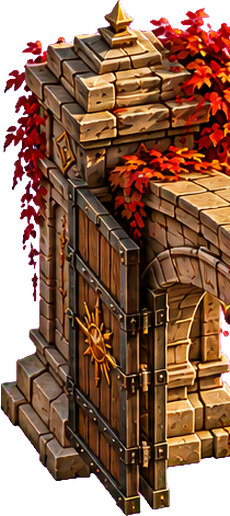
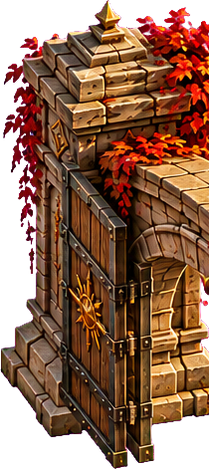
Temple Gate stands on the floor: its back tower's base now on the terrace floor just inside the back edge (it hung over the drop), the front tower still on the front balustrade; monsters never pass the gate (a wall at its line; past it you are out of their reach)
Claude-Session: https://claude.ai/code/session_01L1uDDec2PRhRRuGiNU2YTw

diff --git a/src/world/Monster.ts b/src/world/Monster.ts
@@ -8,7 +8,7 @@ import { actorDepth, clearLine, footAllowed } from './WorldGeometry';
 import { CombatBody, Kin, newKin, settleOnBlocks, stepKin } from '../combat/Combat';
 import { HitTarget } from '../skills/HitGeometry';
 import { NAME_DEPTH } from '../game/ActorView';
-import { MobKind } from './Areas';
+import { MobKind, MOB_WALL_X } from './Areas';
 
 const C = STAGE6.enemy;
 type Action = keyof typeof C.actions;
@@ -130,7 +130,7 @@ export class Monster {
       if (this.respawnLeft <= 0 && Math.hypot(w.player.x - this.home.x, w.player.y - this.home.y) > 90) this.reset();
     } else if (b.canAct(now) && !this.frozen) this.think(ms, w, dx, dy, dist);
     else if (b.state === 'free') { this.kin.vx = 0; this.kin.vy = 0; }
-    const r = stepKin(this.kin, ms, b.gravityScale(now), (x, y) => w.blocked(this, x, y), this.moving && b.state === 'free' && !b.push);
+    const r = stepKin(this.kin, ms, b.gravityScale(now), (x, y) => x > MOB_WALL_X || w.blocked(this, x, y), this.moving && b.state === 'free' && !b.push);
     settleOnBlocks(this.kin, ms, 0);   // knocked onto a block: onto its top face, never over the floor it hides
     if (this.moving && (r.blockedX || r.blockedY) && (this.ai === 'wander' || this.ai === 'home')) this.wanderTo = null; // bumped into something: pick another spot
     const ev = b.update(now, ms, r.landed, r.impactVz);
@@ -145,7 +145,7 @@ export class Monster {
   private think(ms: number, w: MonsterWorld, dx: number, dy: number, dist: number): void {
     const K = this.kind, k = this.kin, sp = K.speed * this.body.moveScale(w.now);
     const fromHome = Math.hypot(k.x - this.home.x, k.y - this.home.y);
-    const sees = w.player.alive && dist <= K.aggro && clearLine(k.x, k.y, w.player.x, w.player.y, 30);
+    const sees = w.player.alive && w.player.x < MOB_WALL_X + 40 && dist <= K.aggro && clearLine(k.x, k.y, w.player.x, w.player.y, 30);
     switch (this.ai) {
       case 'idle': case 'wander': {
         if (sees) { this.enter('chase'); break; }
@@ -167,7 +167,7 @@ export class Monster {
         break;
       }
       case 'chase': {
-        if (!w.player.alive || dist > K.aggro * 1.8 || fromHome > 520) { this.enter('home'); break; }
+        if (!w.player.alive || dist > K.aggro * 1.8 || fromHome > 520 || w.player.x > MOB_WALL_X + 60) { this.enter('home'); break; }  // past the Temple Gate: out of reach
         this.faceToward(w.player.x);
         if (dist <= K.range && Math.abs(dy) < 34) { k.vx = 0; k.vy = 0; if (this.sinceAttack >= K.cooldown && w.player.z < 40) this.startAttack(); break; }
         // stand beside the player (side view): the side it is on, at its reach, same depth

diff --git a/src/world/Areas.ts b/src/world/Areas.ts
@@ -71,6 +71,8 @@ export const belowTerrace = (y: number): boolean => y > ARENA.edgeY;
 
 /** The Temple Gate between the Crimson Ruins and Temple Road (tools/world/gate.py): two picture layers (the back tower
  *  behind everyone, the arch and the front tower in front) and its two towers' footprints. */
+/** Monsters never pass the Temple Gate: nothing of theirs crosses this world x (the line in front of the gate). */
+export const MOB_WALL_X = 6330;
 export const GATE = GATE_DATA as { q: number; back: { x: number; y: number; depth: number }; front: { x: number; y: number; depth: number }; props: { id: string; foot: Pt[]; h: number }[] };
 
 /** The walkable floor of the whole world (world px, one polygon): the strip's, the stairs and the plaza. */

diff --git a/tools/world/gate.py b/tools/world/gate.py
@@ -10,9 +10,10 @@ from PIL import Image
 G = os.path.dirname(os.path.abspath(__file__)) + '/'
 R = G + '../../'
 Q = 1.5                                   # texture px per world px
-S = 0.73                                  # world px per GPT px (floor depth: back tower foot → front tower foot)
-# GPT px → world px: the back tower's foot (600, 559) stands at (6270, 375), just in front of the back balustrade
-AX, AY, WX, WY = 600, 559, 6270, 375
+# GPT px → world px: the back tower's base (sheet y 493) stands ON the floor just inside its back edge (y 346 here)
+# at world (6270, 360); the front tower's base (sheet y 989) on the front balustrade (world y 689)
+AX, AY, WX, WY = 600, 493, 6270, 360
+S = (689 - 360) / (989 - 493)             # world px per GPT px
 SPLIT_X = 705                             # GPT px: left of it the back tower and its door (behind anyone on the floor)
 
 im = np.array(Image.open(G + 'gate/gate_gpt.png').convert('RGB')).astype(np.float32)
@@ -38,7 +39,7 @@ data = {
   'front': {**parts['front'], 'depth': 705},
   # footprints (world px): the towers' bases, solid (nobody walks or jumps through them)
   'props': [
-    {'id': 'gate-back', 'foot': [W2(500, 470), W2(705, 470), W2(705, 562), W2(500, 562)], 'h': 999},
+    {'id': 'gate-back', 'foot': [W2(500, 400), W2(705, 400), W2(705, 495), W2(500, 495)], 'h': 999},
     {'id': 'gate-front', 'foot': [W2(820, 880), W2(1040, 880), W2(1040, 990), W2(820, 990)], 'h': 999},
   ],
 }
